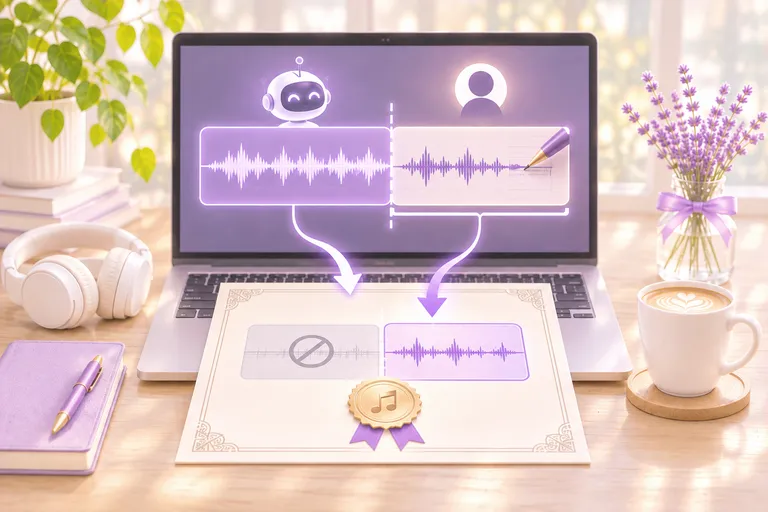
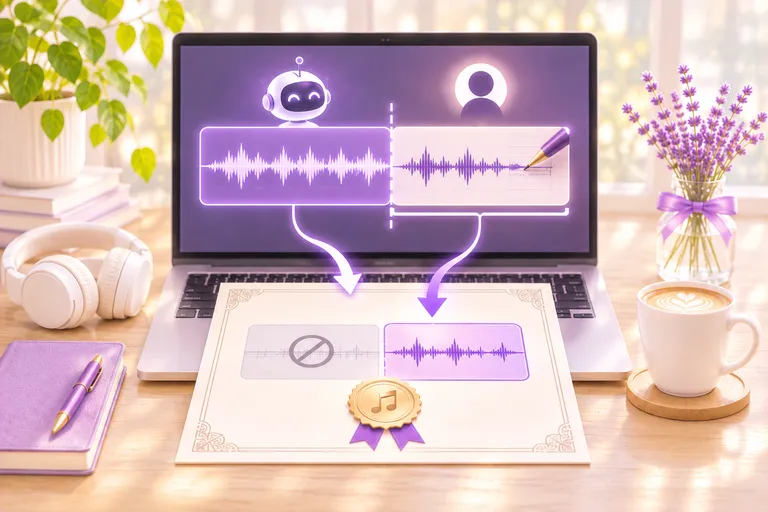
노트 6편 이미지 배경만 밝게, 피부 분석 이미지 얼굴 그대로(?v=1122f) [skip netlify]
Claude-Session: https://claude.ai/code/session_011a17cx1dpy8tGs1Hnq7wi8

diff --git a/index.html b/index.html
@@ -729,7 +729,7 @@ a.note:hover,.note.live:hover{transform:translateY(-2px);border-color:var(--viol
   <div class="notes-bar">
     <div class="note-tabs" role="group" aria-label="노트 분류"></div>
   </div>
-  <div id="noteList"><div class="notes"><article class="note live"><img class="thumb" src="img/note-ai-news-2026-11-3-768.webp?v=1122e" width="768" height="512" loading="lazy" alt="책상 위에 나란히 선 이번 주 AI 소식 다섯 가지 카드"><div class="meta"><span class="cat">AI 뉴스 브리핑</span><span>2026.11.23</span></div><h3><a href="notes/ai-news-2026-11-3.html">이번 주 AI 소식 5가지</a></h3><p>2026년 11월 셋째 주, 제미나이 태스크 한국 무료부터 챗GPT 스페이스·라이브 받아쓰기, 모바일 새 화면, 앤트로픽 상장까지 공식 발표 기준으로 정리합니다.</p><div class="foot"><span class="go">노트 읽기 →</span><button type="button" class="more-btn" data-cat="AI 뉴스 브리핑">지난 노트 <b>8</b>편</button></div></article><article class="note live"><img class="thumb" src="img/note-gemini-tasks-free-768.webp?v=1122e" width="768" height="512" loading="lazy" alt="AI 로봇에게 일을 맡기고 쉬는 뒷모습"><div class="meta"><span class="cat">AI 활용 노하우</span><span>2026.11.23</span></div><h3><a href="notes/gemini-tasks-free.html">제미나이 태스크 무료로 쓰는 법, 무엇을 맡길 수 있나</a></h3><p>한국에서도 무료가 된 제미나이 태스크의 조건, 시작 순서, 미국 먼저인 기능, 결제·개인정보 주의점을 정리합니다.</p><div class="foot"><span class="go">노트 읽기 →</span><button type="button" class="more-btn" data-cat="AI 활용 노하우">지난 노트 <b>4</b>편</button></div></article><article class="note live"><img class="thumb" src="img/note-suno-visuals-768.webp?v=1122e" width="768" height="512" loading="lazy" alt="노트북 화면의 앨범 커버·영상 장면·음파"><div class="meta"><span class="cat">AI 음악 만들기</span><span>2026.11.23</span></div><h3><a href="notes/suno-visuals.html">수노(Suno) Visuals, 내 노래로 15초 영상 만드는 법</a></h3><p>노래로 15초 영상·가사 영상·앨범 아트를 만드는 순서, 따로 드는 Visuals 크레딧과 저작권 장치를 수노 공식 발표 기준으로 정리합니다.</p><div class="foot"><span class="go">노트 읽기 →</span><button type="button" class="more-btn" data-cat="AI 음악 만들기">지난 노트 <b>3</b>편</button></div></article><article class="note live"><img class="thumb" src="img/note-ai-skin-analysis-768.webp?v=1122e" width="768" height="512" loading="lazy" alt="조명에 따라 점수가 달라지는 피부 분석 화면(얼굴은 흐림)"><div class="meta"><span class="cat">뷰티 × AI</span><span>2026.11.23</span></div><h3><a href="notes/ai-skin-analysis.html">AI 피부 분석 앱, 어디까지 믿을 수 있나</a></h3><p>피부 점수가 보는 항목, 식약처 기준으로 본 의료기기와 관리 앱의 경계, 결과가 흔들리는 이유와 잘 쓰는 법을 정리합니다.</p><div class="foot"><span class="go">노트 읽기 →</span><button type="button" class="more-btn" data-cat="뷰티 × AI">지난 노트 <b>3</b>편</button></div></article><article class="note live"><img class="thumb" src="img/note-sheet-music-omr-768.webp?v=1122e" width="768" height="512" loading="lazy" alt="낡은 종이 악보가 AI로 편집 가능한 디지털 악보로 바뀌는 노트북 화면"><div class="meta"><span class="cat">반주 · 피아노 × AI</span><span>2026.11.23</span></div><h3><a href="notes/sheet-music-omr.html">PDF 악보를 편집할 수 있는 악보로, AI 악보 인식(OMR) 정리</a></h3><p>뮤즈스코어 PDF 가져오기·오디베리스·플레이스코어 2·사운드슬라이스 비교와 변환 순서, 검수·저작권 주의점을 정리합니다.</p><div class="foot"><span class="go">노트 읽기 →</span><button type="button" class="more-btn" data-cat="반주 · 피아노 × AI">지난 노트 <b>3</b>편</button></div></article><article class="note live"><img class="thumb" src="img/note-ai-copyright-registration-768.webp?v=1122e" width="768" height="512" loading="lazy" alt="AI가 만든 부분은 빠지고 사람이 만든 부분만 등록되는 저작권 등록증"><div class="meta"><span class="cat">AI 시대의 창작과 교육</span><span>2026.11.23</span></div><h3><a href="notes/ai-copyright-registration.html">저작권 등록할 때 AI 사용을 밝히게 된다, 창작자가 알아둘 것</a></h3><p>문체부의 AI 사용 명시 추진과 지금 등록 기준, 사람이 기여한 부분만 보호되는 원칙, 창작 기록 남기는 법을 정리합니다.</p><div class="foot"><span class="go">노트 읽기 →</span><button type="button" class="more-btn" data-cat="AI 시대의 창작과 교육">지난 노트 <b>3</b>편</button></div></article></div><div class="past with-cat" role="region" aria-label="지난 노트"><div class="past-head"><h4><b>지난</b> 노트</h4><span>분야 탭을 누르면 분야별로 모아 볼 수 있습니다</span></div><ol><li><a class="past-row" href="notes/ai-news-2026-11-2.html"><span class="c">AI 뉴스 브리핑</span><span class="t">이번 주 AI 소식 5가지 <span class="s">(11월 둘째 주)</span></span><time>2026.11.16</time></a></li><li><a class="past-row" href="notes/ai-content-festival-2026.html"><span class="c">AI 뉴스 브리핑</span><span class="t">AI 콘텐츠 페스티벌 2026으로 본 AI 창작의 흐름</span><time>2026.11.13</time></a></li><li><a class="past-row" href="notes/ai-news-2026-11-1.html"><span class="c">AI 뉴스 브리핑</span><span class="t">이번 주 AI 소식 5가지 <span class="s">(11월 첫째 주)</span></span><time>2026.11.07</time></a></li><li><a class="past-row" href="notes/gemini-plans-2026.html"><span class="c">AI 활용 노하우</span><span class="t">제미나이 요금제 비교, 11월 13일 이후 무엇을 고를까</span><time>2026.11.07</time></a></li><li><a class="past-row" href="notes/suno-cover-extend.html"><span class="c">AI 음악 만들기</span><span class="t">수노(Suno) 커버·익스텐드, 내 곡을 바꾸고 이어 만드는 법</span><time>2026.11.07</time></a></li><li><a class="past-row" href="notes/ai-virtual-makeup.html"><span class="c">뷰티 × AI</span><span class="t">AI 가상 메이크업 앱, 어디까지 믿을 수 있나</span><time>2026.11.07</time></a></li><li class="more-hidden"><a class="past-row" href="notes/christmas-worship-accompaniment.html"><span class="c">반주 · 피아노 × AI</span><span class="t">성탄 찬양 반주 준비, 코드 진행과 편곡 아이디어</span><time>2026.11.07</time></a></li><li class="more-hidden"><a class="past-row" href="notes/youtube-ai-monetization.html"><span class="c">AI 시대의 창작과 교육</span><span class="t">유튜브 AI 콘텐츠, 수익 정책 어디까지 알아야 하나</span><time>2026.11.07</time></a></li><li class="more-hidden"><a class="past-row" href="notes/robotworld-2026.html"><span class="c">AI 뉴스 브리핑</span><span class="t">로보월드 2026으로 본 휴머노이드·피지컬 AI 5가지</span><time>2026.11.06</time></a></li><li class="more-hidden"><a class="past-row" href="notes/aiot-week-2026.html"><span class="c">AI 뉴스 브리핑</span><span class="t">AIoT 위크 코리아 2026으로 본 피지컬 AI 5가지</span><time>2026.11.03</time></a></li><li class="more-hidden"><a class="past-row" href="notes/ai-news-2026-10-5.html"><span class="c">AI 뉴스 브리핑</span><span class="t">이번 주 AI 소식 5가지 <span class="s">(10월 다섯째 주)</span></span><time>2026.10.31</time></a></li><li class="more-hidden"><a class="past-row" href="notes/pickle-ai-agent.html"><span class="c">AI 활용 노하우</span><span class="t">휴대폰 속 AI 비서 피클, 인스팅트와 무엇이 다른가</span><time>2026.10.31</time></a></li><li class="more-hidden"><a class="past-row" href="notes/ai-news-2026-10-4.html"><span class="c">AI 뉴스 브리핑</span><span class="t">이번 주 AI 소식 5가지 <span class="s">(10월 넷째 주)</span></span><time>2026.10.26</time></a></li><li class="more-hidden"><a class="past-row" href="notes/gemini-gems-to-skills.html"><span class="c">AI 활용 노하우</span><span class="t">제미나이 Gems가 스킬로 바뀐다, 미리 할 일</span><time>2026.10.26</time></a></li><li class="more-hidden"><a class="past-row" href="notes/suno-styles.html"><span class="c">AI 음악 만들기</span><span class="t">수노(Suno) Styles 칸, 이렇게 쓰면 곡이 달라진다</span><time>2026.10.26</time></a></li><li class="more-hidden"><a class="past-row" href="notes/ai-hairstyle-simulation.html"><span class="c">뷰티 × AI</span><span class="t">AI 헤어스타일 시뮬레이션, 미용실 가기 전에 알아 둘 것</span><time>2026.10.26</time></a></li><li class="more-hidden"><a class="past-row" href="notes/worship-transpose.html"><span class="c">반주 · 피아노 × AI</span><span class="t">찬양 반주 조옮김, 트랜스포즈 버튼과 악보 프로그램 쓰는 법</span><time>2026.10.26</time></a></li><li class="more-hidden"><a class="past-row" href="notes/music-education-ai.html"><span class="c">AI 시대의 창작과 교육</span><span class="t">음악 교육 현장의 AI 도구, 지금 어디까지 왔나</span><time>2026.10.26</time></a></li><li class="more-hidden"><a class="past-row" href="notes/ai-news-2026-10-3.html"><span class="c">AI 뉴스 브리핑</span><span class="t">이번 주 AI 소식 5가지 <span class="s">(10월 셋째 주)</span></span><time>2026.10.21</time></a></li><li class="more-hidden"><a class="past-row" href="notes/chatgpt-gemini-claude.html"><span class="c">AI 활용 노하우</span><span class="t">챗GPT·제미나이·클로드, 무엇을 쓸까</span><time>2026.10.21</time></a></li><li class="more-hidden"><a class="past-row" href="notes/suno-lyrics.html"><span class="c">AI 음악 만들기</span><span class="t">수노(Suno) AI로 작사부터 시작하는 법</span><time>2026.10.21</time></a></li><li class="more-hidden"><a class="past-row" href="notes/personal-color.html"><span class="c">뷰티 × AI</span><span class="t">퍼스널컬러 진단, 받기 전에 알아 둘 것과 AI 활용법</span><time>2026.10.21</time></a></li><li class="more-hidden"><a class="past-row" href="notes/worship-chord-progressions.html"><span class="c">반주 · 피아노 × AI</span><span class="t">찬양 반주 코드 진행, 초보가 먼저 익힐 5가지</span><time>2026.10.21</time></a></li><li class="more-hidden"><a class="past-row" href="notes/ai-music-copyright.html"><span class="c">AI 시대의 창작과 교육</span><span class="t">AI로 만든 노래의 저작권, 지금 어디까지 왔나</span><time>2026.10.21</time></a></li></ol><button type="button" class="past-more">지난 노트 18편 더 보기</button></div></div><!--/noteList-->
+  <div id="noteList"><div class="notes"><article class="note live"><img class="thumb" src="img/note-ai-news-2026-11-3-768.webp?v=1122f" width="768" height="512" loading="lazy" alt="책상 위에 나란히 선 이번 주 AI 소식 다섯 가지 카드"><div class="meta"><span class="cat">AI 뉴스 브리핑</span><span>2026.11.23</span></div><h3><a href="notes/ai-news-2026-11-3.html">이번 주 AI 소식 5가지</a></h3><p>2026년 11월 셋째 주, 제미나이 태스크 한국 무료부터 챗GPT 스페이스·라이브 받아쓰기, 모바일 새 화면, 앤트로픽 상장까지 공식 발표 기준으로 정리합니다.</p><div class="foot"><span class="go">노트 읽기 →</span><button type="button" class="more-btn" data-cat="AI 뉴스 브리핑">지난 노트 <b>8</b>편</button></div></article><article class="note live"><img class="thumb" src="img/note-gemini-tasks-free-768.webp?v=1122f" width="768" height="512" loading="lazy" alt="AI 로봇에게 일을 맡기고 쉬는 뒷모습"><div class="meta"><span class="cat">AI 활용 노하우</span><span>2026.11.23</span></div><h3><a href="notes/gemini-tasks-free.html">제미나이 태스크 무료로 쓰는 법, 무엇을 맡길 수 있나</a></h3><p>한국에서도 무료가 된 제미나이 태스크의 조건, 시작 순서, 미국 먼저인 기능, 결제·개인정보 주의점을 정리합니다.</p><div class="foot"><span class="go">노트 읽기 →</span><button type="button" class="more-btn" data-cat="AI 활용 노하우">지난 노트 <b>4</b>편</button></div></article><article class="note live"><img class="thumb" src="img/note-suno-visuals-768.webp?v=1122f" width="768" height="512" loading="lazy" alt="노트북 화면의 앨범 커버·영상 장면·음파"><div class="meta"><span class="cat">AI 음악 만들기</span><span>2026.11.23</span></div><h3><a href="notes/suno-visuals.html">수노(Suno) Visuals, 내 노래로 15초 영상 만드는 법</a></h3><p>노래로 15초 영상·가사 영상·앨범 아트를 만드는 순서, 따로 드는 Visuals 크레딧과 저작권 장치를 수노 공식 발표 기준으로 정리합니다.</p><div class="foot"><span class="go">노트 읽기 →</span><button type="button" class="more-btn" data-cat="AI 음악 만들기">지난 노트 <b>3</b>편</button></div></article><article class="note live"><img class="thumb" src="img/note-ai-skin-analysis-768.webp?v=1122f" width="768" height="512" loading="lazy" alt="조명에 따라 점수가 달라지는 피부 분석 화면"><div class="meta"><span class="cat">뷰티 × AI</span><span>2026.11.23</span></div><h3><a href="notes/ai-skin-analysis.html">AI 피부 분석 앱, 어디까지 믿을 수 있나</a></h3><p>피부 점수가 보는 항목, 식약처 기준으로 본 의료기기와 관리 앱의 경계, 결과가 흔들리는 이유와 잘 쓰는 법을 정리합니다.</p><div class="foot"><span class="go">노트 읽기 →</span><button type="button" class="more-btn" data-cat="뷰티 × AI">지난 노트 <b>3</b>편</button></div></article><article class="note live"><img class="thumb" src="img/note-sheet-music-omr-768.webp?v=1122f" width="768" height="512" loading="lazy" alt="낡은 종이 악보가 AI로 편집 가능한 디지털 악보로 바뀌는 노트북 화면"><div class="meta"><span class="cat">반주 · 피아노 × AI</span><span>2026.11.23</span></div><h3><a href="notes/sheet-music-omr.html">PDF 악보를 편집할 수 있는 악보로, AI 악보 인식(OMR) 정리</a></h3><p>뮤즈스코어 PDF 가져오기·오디베리스·플레이스코어 2·사운드슬라이스 비교와 변환 순서, 검수·저작권 주의점을 정리합니다.</p><div class="foot"><span class="go">노트 읽기 →</span><button type="button" class="more-btn" data-cat="반주 · 피아노 × AI">지난 노트 <b>3</b>편</button></div></article><article class="note live"><img class="thumb" src="img/note-ai-copyright-registration-768.webp?v=1122f" width="768" height="512" loading="lazy" alt="AI가 만든 부분은 빠지고 사람이 만든 부분만 등록되는 저작권 등록증"><div class="meta"><span class="cat">AI 시대의 창작과 교육</span><span>2026.11.23</span></div><h3><a href="notes/ai-copyright-registration.html">저작권 등록할 때 AI 사용을 밝히게 된다, 창작자가 알아둘 것</a></h3><p>문체부의 AI 사용 명시 추진과 지금 등록 기준, 사람이 기여한 부분만 보호되는 원칙, 창작 기록 남기는 법을 정리합니다.</p><div class="foot"><span class="go">노트 읽기 →</span><button type="button" class="more-btn" data-cat="AI 시대의 창작과 교육">지난 노트 <b>3</b>편</button></div></article></div><div class="past with-cat" role="region" aria-label="지난 노트"><div class="past-head"><h4><b>지난</b> 노트</h4><span>분야 탭을 누르면 분야별로 모아 볼 수 있습니다</span></div><ol><li><a class="past-row" href="notes/ai-news-2026-11-2.html"><span class="c">AI 뉴스 브리핑</span><span class="t">이번 주 AI 소식 5가지 <span class="s">(11월 둘째 주)</span></span><time>2026.11.16</time></a></li><li><a class="past-row" href="notes/ai-content-festival-2026.html"><span class="c">AI 뉴스 브리핑</span><span class="t">AI 콘텐츠 페스티벌 2026으로 본 AI 창작의 흐름</span><time>2026.11.13</time></a></li><li><a class="past-row" href="notes/ai-news-2026-11-1.html"><span class="c">AI 뉴스 브리핑</span><span class="t">이번 주 AI 소식 5가지 <span class="s">(11월 첫째 주)</span></span><time>2026.11.07</time></a></li><li><a class="past-row" href="notes/gemini-plans-2026.html"><span class="c">AI 활용 노하우</span><span class="t">제미나이 요금제 비교, 11월 13일 이후 무엇을 고를까</span><time>2026.11.07</time></a></li><li><a class="past-row" href="notes/suno-cover-extend.html"><span class="c">AI 음악 만들기</span><span class="t">수노(Suno) 커버·익스텐드, 내 곡을 바꾸고 이어 만드는 법</span><time>2026.11.07</time></a></li><li><a class="past-row" href="notes/ai-virtual-makeup.html"><span class="c">뷰티 × AI</span><span class="t">AI 가상 메이크업 앱, 어디까지 믿을 수 있나</span><time>2026.11.07</time></a></li><li class="more-hidden"><a class="past-row" href="notes/christmas-worship-accompaniment.html"><span class="c">반주 · 피아노 × AI</span><span class="t">성탄 찬양 반주 준비, 코드 진행과 편곡 아이디어</span><time>2026.11.07</time></a></li><li class="more-hidden"><a class="past-row" href="notes/youtube-ai-monetization.html"><span class="c">AI 시대의 창작과 교육</span><span class="t">유튜브 AI 콘텐츠, 수익 정책 어디까지 알아야 하나</span><time>2026.11.07</time></a></li><li class="more-hidden"><a class="past-row" href="notes/robotworld-2026.html"><span class="c">AI 뉴스 브리핑</span><span class="t">로보월드 2026으로 본 휴머노이드·피지컬 AI 5가지</span><time>2026.11.06</time></a></li><li class="more-hidden"><a class="past-row" href="notes/aiot-week-2026.html"><span class="c">AI 뉴스 브리핑</span><span class="t">AIoT 위크 코리아 2026으로 본 피지컬 AI 5가지</span><time>2026.11.03</time></a></li><li class="more-hidden"><a class="past-row" href="notes/ai-news-2026-10-5.html"><span class="c">AI 뉴스 브리핑</span><span class="t">이번 주 AI 소식 5가지 <span class="s">(10월 다섯째 주)</span></span><time>2026.10.31</time></a></li><li class="more-hidden"><a class="past-row" href="notes/pickle-ai-agent.html"><span class="c">AI 활용 노하우</span><span class="t">휴대폰 속 AI 비서 피클, 인스팅트와 무엇이 다른가</span><time>2026.10.31</time></a></li><li class="more-hidden"><a class="past-row" href="notes/ai-news-2026-10-4.html"><span class="c">AI 뉴스 브리핑</span><span class="t">이번 주 AI 소식 5가지 <span class="s">(10월 넷째 주)</span></span><time>2026.10.26</time></a></li><li class="more-hidden"><a class="past-row" href="notes/gemini-gems-to-skills.html"><span class="c">AI 활용 노하우</span><span class="t">제미나이 Gems가 스킬로 바뀐다, 미리 할 일</span><time>2026.10.26</time></a></li><li class="more-hidden"><a class="past-row" href="notes/suno-styles.html"><span class="c">AI 음악 만들기</span><span class="t">수노(Suno) Styles 칸, 이렇게 쓰면 곡이 달라진다</span><time>2026.10.26</time></a></li><li class="more-hidden"><a class="past-row" href="notes/ai-hairstyle-simulation.html"><span class="c">뷰티 × AI</span><span class="t">AI 헤어스타일 시뮬레이션, 미용실 가기 전에 알아 둘 것</span><time>2026.10.26</time></a></li><li class="more-hidden"><a class="past-row" href="notes/worship-transpose.html"><span class="c">반주 · 피아노 × AI</span><span class="t">찬양 반주 조옮김, 트랜스포즈 버튼과 악보 프로그램 쓰는 법</span><time>2026.10.26</time></a></li><li class="more-hidden"><a class="past-row" href="notes/music-education-ai.html"><span class="c">AI 시대의 창작과 교육</span><span class="t">음악 교육 현장의 AI 도구, 지금 어디까지 왔나</span><time>2026.10.26</time></a></li><li class="more-hidden"><a class="past-row" href="notes/ai-news-2026-10-3.html"><span class="c">AI 뉴스 브리핑</span><span class="t">이번 주 AI 소식 5가지 <span class="s">(10월 셋째 주)</span></span><time>2026.10.21</time></a></li><li class="more-hidden"><a class="past-row" href="notes/chatgpt-gemini-claude.html"><span class="c">AI 활용 노하우</span><span class="t">챗GPT·제미나이·클로드, 무엇을 쓸까</span><time>2026.10.21</time></a></li><li class="more-hidden"><a class="past-row" href="notes/suno-lyrics.html"><span class="c">AI 음악 만들기</span><span class="t">수노(Suno) AI로 작사부터 시작하는 법</span><time>2026.10.21</time></a></li><li class="more-hidden"><a class="past-row" href="notes/personal-color.html"><span class="c">뷰티 × AI</span><span class="t">퍼스널컬러 진단, 받기 전에 알아 둘 것과 AI 활용법</span><time>2026.10.21</time></a></li><li class="more-hidden"><a class="past-row" href="notes/worship-chord-progressions.html"><span class="c">반주 · 피아노 × AI</span><span class="t">찬양 반주 코드 진행, 초보가 먼저 익힐 5가지</span><time>2026.10.21</time></a></li><li class="more-hidden"><a class="past-row" href="notes/ai-music-copyright.html"><span class="c">AI 시대의 창작과 교육</span><span class="t">AI로 만든 노래의 저작권, 지금 어디까지 왔나</span><time>2026.10.21</time></a></li></ol><button type="button" class="past-more">지난 노트 18편 더 보기</button></div></div><!--/noteList-->
 </section>
 
 <script>
@@ -738,12 +738,12 @@ a.note:hover,.note.live:hover{transform:translateY(-2px);border-color:var(--viol
    url에 "notes/파일명.html"을 넣으면 카드가 노트로 연결되고, 비어 있으면 "준비 중"으로 표시됩니다. */
 const CATS = ["AI 뉴스 브리핑","AI 활용 노하우","AI 음악 만들기","뷰티 × AI","반주 · 피아노 × AI","AI 시대의 창작과 교육"];
 const NOTES = [
-  {cat:"AI 뉴스 브리핑", title:"이번 주 AI 소식 5가지", desc:"2026년 11월 셋째 주, 제미나이 태스크 한국 무료부터 챗GPT 스페이스·라이브 받아쓰기, 모바일 새 화면, 앤트로픽 상장까지 공식 발표 기준으로 정리합니다.", sub:"11월 셋째 주", date:"2026.11.23", url:"notes/ai-news-2026-11-3.html", img:"img/note-ai-news-2026-11-3-768.webp?v=1122e", alt:"책상 위에 나란히 선 이번 주 AI 소식 다섯 가지 카드"},
-  {cat:"AI 시대의 창작과 교육", title:"저작권 등록할 때 AI 사용을 밝히게 된다, 창작자가 알아둘 것", desc:"문체부의 AI 사용 명시 추진과 지금 등록 기준, 사람이 기여한 부분만 보호되는 원칙, 창작 기록 남기는 법을 정리합니다.", date:"2026.11.23", url:"notes/ai-copyright-registration.html", img:"img/note-ai-copyright-registration-768.webp?v=1122e", alt:"AI가 만든 부분은 빠지고 사람이 만든 부분만 등록되는 저작권 등록증"},
-  {cat:"반주 · 피아노 × AI", title:"PDF 악보를 편집할 수 있는 악보로, AI 악보 인식(OMR) 정리", desc:"뮤즈스코어 PDF 가져오기·오디베리스·플레이스코어 2·사운드슬라이스 비교와 변환 순서, 검수·저작권 주의점을 정리합니다.", date:"2026.11.23", url:"notes/sheet-music-omr.html", img:"img/note-sheet-music-omr-768.webp?v=1122e", alt:"낡은 종이 악보가 AI로 편집 가능한 디지털 악보로 바뀌는 노트북 화면"},
-  {cat:"뷰티 × AI", title:"AI 피부 분석 앱, 어디까지 믿을 수 있나", desc:"피부 점수가 보는 항목, 식약처 기준으로 본 의료기기와 관리 앱의 경계, 결과가 흔들리는 이유와 잘 쓰는 법을 정리합니다.", date:"2026.11.23", url:"notes/ai-skin-analysis.html", img:"img/note-ai-skin-analysis-768.webp?v=1122e", alt:"조명에 따라 점수가 달라지는 피부 분석 화면(얼굴은 흐림)"},
-  {cat:"AI 음악 만들기", title:"수노(Suno) Visuals, 내 노래로 15초 영상 만드는 법", desc:"노래로 15초 영상·가사 영상·앨범 아트를 만드는 순서, 따로 드는 Visuals 크레딧과 저작권 장치를 수노 공식 발표 기준으로 정리합니다.", date:"2026.11.23", url:"notes/suno-visuals.html", img:"img/note-suno-visuals-768.webp?v=1122e", alt:"노트북 화면의 앨범 커버·영상 장면·음파"},
-  {cat:"AI 활용 노하우", title:"제미나이 태스크 무료로 쓰는 법, 무엇을 맡길 수 있나", desc:"한국에서도 무료가 된 제미나이 태스크의 조건, 시작 순서, 미국 먼저인 기능, 결제·개인정보 주의점을 정리합니다.", date:"2026.11.23", url:"notes/gemini-tasks-free.html", img:"img/note-gemini-tasks-free-768.webp?v=1122e", alt:"AI 로봇에게 일을 맡기고 쉬는 뒷모습"},
+  {cat:"AI 뉴스 브리핑", title:"이번 주 AI 소식 5가지", desc:"2026년 11월 셋째 주, 제미나이 태스크 한국 무료부터 챗GPT 스페이스·라이브 받아쓰기, 모바일 새 화면, 앤트로픽 상장까지 공식 발표 기준으로 정리합니다.", sub:"11월 셋째 주", date:"2026.11.23", url:"notes/ai-news-2026-11-3.html", img:"img/note-ai-news-2026-11-3-768.webp?v=1122f", alt:"책상 위에 나란히 선 이번 주 AI 소식 다섯 가지 카드"},
+  {cat:"AI 시대의 창작과 교육", title:"저작권 등록할 때 AI 사용을 밝히게 된다, 창작자가 알아둘 것", desc:"문체부의 AI 사용 명시 추진과 지금 등록 기준, 사람이 기여한 부분만 보호되는 원칙, 창작 기록 남기는 법을 정리합니다.", date:"2026.11.23", url:"notes/ai-copyright-registration.html", img:"img/note-ai-copyright-registration-768.webp?v=1122f", alt:"AI가 만든 부분은 빠지고 사람이 만든 부분만 등록되는 저작권 등록증"},
+  {cat:"반주 · 피아노 × AI", title:"PDF 악보를 편집할 수 있는 악보로, AI 악보 인식(OMR) 정리", desc:"뮤즈스코어 PDF 가져오기·오디베리스·플레이스코어 2·사운드슬라이스 비교와 변환 순서, 검수·저작권 주의점을 정리합니다.", date:"2026.11.23", url:"notes/sheet-music-omr.html", img:"img/note-sheet-music-omr-768.webp?v=1122f", alt:"낡은 종이 악보가 AI로 편집 가능한 디지털 악보로 바뀌는 노트북 화면"},
+  {cat:"뷰티 × AI", title:"AI 피부 분석 앱, 어디까지 믿을 수 있나", desc:"피부 점수가 보는 항목, 식약처 기준으로 본 의료기기와 관리 앱의 경계, 결과가 흔들리는 이유와 잘 쓰는 법을 정리합니다.", date:"2026.11.23", url:"notes/ai-skin-analysis.html", img:"img/note-ai-skin-analysis-768.webp?v=1122f", alt:"조명에 따라 점수가 달라지는 피부 분석 화면"},
+  {cat:"AI 음악 만들기", title:"수노(Suno) Visuals, 내 노래로 15초 영상 만드는 법", desc:"노래로 15초 영상·가사 영상·앨범 아트를 만드는 순서, 따로 드는 Visuals 크레딧과 저작권 장치를 수노 공식 발표 기준으로 정리합니다.", date:"2026.11.23", url:"notes/suno-visuals.html", img:"img/note-suno-visuals-768.webp?v=1122f", alt:"노트북 화면의 앨범 커버·영상 장면·음파"},
+  {cat:"AI 활용 노하우", title:"제미나이 태스크 무료로 쓰는 법, 무엇을 맡길 수 있나", desc:"한국에서도 무료가 된 제미나이 태스크의 조건, 시작 순서, 미국 먼저인 기능, 결제·개인정보 주의점을 정리합니다.", date:"2026.11.23", url:"notes/gemini-tasks-free.html", img:"img/note-gemini-tasks-free-768.webp?v=1122f", alt:"AI 로봇에게 일을 맡기고 쉬는 뒷모습"},
   {cat:"AI 뉴스 브리핑", title:"이번 주 AI 소식 5가지", desc:"2026년 11월 둘째 주, 챗GPT 음성 12월 11일 변경과 클로드 시트·화이트보드, 제미나이 카플레이, 어도비 맥스, AI 안경 예약을 공식 발표 기준으로 정리합니다.", sub:"11월 둘째 주", date:"2026.11.16", url:"notes/ai-news-2026-11-2.html", img:"img/note-ai-news-2026-11-2-768.webp", alt:"보라색 음성 파형이 뜬 스마트폰에 손을 얹은 책상"},
   {cat:"AI 뉴스 브리핑", title:"AI 콘텐츠 페스티벌 2026으로 본 AI 창작의 흐름", desc:"문체부·콘진원이 연 무료 AI 콘텐츠 축제. 스토리·플레이·메이크·크로스 전시와 사흘간 강연·오픈클래스, 14일 특별공연과 관람 정보를 정리합니다.", date:"2026.11.13", url:"notes/ai-content-festival-2026.html", img:"img/note-ai-content-festival-2026-768.webp", alt:"코엑스 더플라츠 복도의 AI 콘텐츠 페스티벌 디지털 안내 화면 앞에 선 관람객들의 뒷모습"},
   {cat:"AI 시대의 창작과 교육", title:"유튜브 AI 콘텐츠, 수익 정책 어디까지 알아야 하나", desc:"비진정성 콘텐츠 기준, AI 음악 사용 공개, AI 라벨과 수익, 2027년 YPP 변경을 유튜브 공식 정책으로 정리합니다.", date:"2026.11.07", url:"notes/youtube-ai-monetization.html", img:"img/note-youtube-ai-monetization-768.webp", alt:"영상 편집 화면 옆에서 체크리스트에 표시하는 손"},

diff --git a/notes/ai-copyright-registration.html b/notes/ai-copyright-registration.html
@@ -143,7 +143,7 @@ if(document.readyState==='complete'){w();}else{addEventListener('load',w);}})();
 </header>
 
 <figure class="hero">
-  <img src="../img/note-ai-copyright-registration.webp?v=1122e" srcset="../img/note-ai-copyright-registration-768.webp?v=1122e 768w, ../img/note-ai-copyright-registration.webp?v=1122e 1536w" sizes="(max-width:760px) 100vw, 760px" width="1536" height="1024" fetchpriority="high" alt="원목 책상 위 노트북 화면에 AI 로봇이 만든 음파와 사람이 펜으로 다듬은 음파가 나뉘어 있고, 사람이 만든 부분만 금색 음표 인장이 찍힌 등록증에 옮겨지고 AI 부분은 금지 표시로 빠지는 모습. 옆에 헤드폰, 보라 노트와 펜, 라테, 라벤더 꽃병">
+  <img src="../img/note-ai-copyright-registration.webp?v=1122f" srcset="../img/note-ai-copyright-registration-768.webp?v=1122f 768w, ../img/note-ai-copyright-registration.webp?v=1122f 1536w" sizes="(max-width:760px) 100vw, 760px" width="1536" height="1024" fetchpriority="high" alt="원목 책상 위 노트북 화면에 AI 로봇이 만든 음파와 사람이 펜으로 다듬은 음파가 나뉘어 있고, 사람이 만든 부분만 금색 음표 인장이 찍힌 등록증에 옮겨지고 AI 부분은 금지 표시로 빠지는 모습. 옆에 헤드폰, 보라 노트와 펜, 라테, 라벤더 꽃병">
   <figcaption>AI 생성 이미지입니다.</figcaption>
 </figure>
 

diff --git a/notes/ai-news-2026-11-3.html b/notes/ai-news-2026-11-3.html
@@ -143,7 +143,7 @@ if(document.readyState==='complete'){w();}else{addEventListener('load',w);}})();
 </header>
 
 <figure class="hero">
-  <img src="../img/note-ai-news-2026-11-3.webp?v=1122e" srcset="../img/note-ai-news-2026-11-3-768.webp?v=1122e 768w, ../img/note-ai-news-2026-11-3.webp?v=1122e 1536w" sizes="(max-width:760px) 100vw, 760px" width="1536" height="1024" fetchpriority="high" alt="햇살 드는 원목 책상 위에 흰 카드 다섯 장이 나란히 서 있고, 할 일 체크 목록·작업 공간·마이크와 음파·휴대폰 앱 화면·상승 그래프가 하나씩 그려져 이번 주 AI 소식 다섯 가지를 보여 주는 정물. 옆에 라벤더 꽃병, 캔들, 책, 아이보리 헤드폰, 보라 노트와 펜">
+  <img src="../img/note-ai-news-2026-11-3.webp?v=1122f" srcset="../img/note-ai-news-2026-11-3-768.webp?v=1122f 768w, ../img/note-ai-news-2026-11-3.webp?v=1122f 1536w" sizes="(max-width:760px) 100vw, 760px" width="1536" height="1024" fetchpriority="high" alt="햇살 드는 원목 책상 위에 흰 카드 다섯 장이 나란히 서 있고, 할 일 체크 목록·작업 공간·마이크와 음파·휴대폰 앱 화면·상승 그래프가 하나씩 그려져 이번 주 AI 소식 다섯 가지를 보여 주는 정물. 옆에 라벤더 꽃병, 캔들, 책, 아이보리 헤드폰, 보라 노트와 펜">
   <figcaption>AI 생성 이미지입니다.</figcaption>
 </figure>
 

diff --git a/notes/suno-visuals.html b/notes/suno-visuals.html
@@ -143,7 +143,7 @@ if(document.readyState==='complete'){w();}else{addEventListener('load',w);}})();
 </header>
 
 <figure class="hero">
-  <img src="../img/note-suno-visuals.webp?v=1122e" srcset="../img/note-suno-visuals-768.webp?v=1122e 768w, ../img/note-suno-visuals.webp?v=1122e 1536w" sizes="(max-width:760px) 100vw, 760px" width="1536" height="1024" fetchpriority="high" alt="원목 책상 위 노트북 화면에 LP와 함께 놓인 앨범 커버, 노을 진 파리 풍경 영상 장면 세 칸, 그 아래 보라 음파가 정돈되어 노래 하나로 앨범 아트와 짧은 영상을 만드는 모습을 보여 주는 정물. 옆에 라벤더 꽃병, 아이보리 헤드폰, 건반, 보라 노트와 펜">
+  <img src="../img/note-suno-visuals.webp?v=1122f" srcset="../img/note-suno-visuals-768.webp?v=1122f 768w, ../img/note-suno-visuals.webp?v=1122f 1536w" sizes="(max-width:760px) 100vw, 760px" width="1536" height="1024" fetchpriority="high" alt="원목 책상 위 노트북 화면에 LP와 함께 놓인 앨범 커버, 노을 진 파리 풍경 영상 장면 세 칸, 그 아래 보라 음파가 정돈되어 노래 하나로 앨범 아트와 짧은 영상을 만드는 모습을 보여 주는 정물. 옆에 라벤더 꽃병, 아이보리 헤드폰, 건반, 보라 노트와 펜">
   <figcaption>AI 생성 이미지입니다.</figcaption>
 </figure>
 

diff --git a/notes/ai-skin-analysis.html b/notes/ai-skin-analysis.html
@@ -143,7 +143,7 @@ if(document.readyState==='complete'){w();}else{addEventListener('load',w);}})();
 </header>
 
 <figure class="hero">
-  <img src="../img/note-ai-skin-analysis.webp?v=1122e" srcset="../img/note-ai-skin-analysis-768.webp?v=1122e 768w, ../img/note-ai-skin-analysis.webp?v=1122e 1536w" sizes="(max-width:760px) 100vw, 760px" width="1536" height="1024" fetchpriority="high" alt="화장대 앞에서 연한 퍼플 니트 소매의 손이 피부 분석 화면을 띄운 휴대폰을 들고 터치하고, 햇빛·조명·스탠드 아이콘 아래 같은 얼굴 사진 세 장의 점수 그래프가 서로 다르게 나오는 모습(얼굴은 흐림). 앞에 크림색 스킨케어 병과 라벤더">
+  <img src="../img/note-ai-skin-analysis.webp?v=1122f" srcset="../img/note-ai-skin-analysis-768.webp?v=1122f 768w, ../img/note-ai-skin-analysis.webp?v=1122f 1536w" sizes="(max-width:760px) 100vw, 760px" width="1536" height="1024" fetchpriority="high" alt="화장대 앞에서 연한 퍼플 니트 소매의 손이 피부 분석 화면을 띄운 휴대폰을 들고 터치하고, 햇빛·조명·스탠드 아이콘 아래 같은 얼굴 사진 세 장의 점수 그래프가 서로 다르게 나오는 모습. 앞에 크림색 스킨케어 병과 라벤더">
   <figcaption>AI 생성 이미지입니다.</figcaption>
 </figure>
 

diff --git a/notes/sheet-music-omr.html b/notes/sheet-music-omr.html
@@ -143,7 +143,7 @@ if(document.readyState==='complete'){w();}else{addEventListener('load',w);}})();
 </header>
 
 <figure class="hero">
-  <img src="../img/note-sheet-music-omr.webp?v=1122e" srcset="../img/note-sheet-music-omr-768.webp?v=1122e 768w, ../img/note-sheet-music-omr.webp?v=1122e 1536w" sizes="(max-width:760px) 100vw, 760px" width="1536" height="1024" fetchpriority="high" alt="원목 책상 위 노트북 화면에서 왼쪽의 낡은 종이 악보가 AI 칩을 거쳐 오른쪽의 깔끔하고 고칠 수 있는 디지털 악보로 바뀌고, 연한 퍼플 니트 소매의 손가락이 터치패드를 누르는 모습. 옆에 라벤더 꽃병, 책, 종이 악보와 펜, 건반">
+  <img src="../img/note-sheet-music-omr.webp?v=1122f" srcset="../img/note-sheet-music-omr-768.webp?v=1122f 768w, ../img/note-sheet-music-omr.webp?v=1122f 1536w" sizes="(max-width:760px) 100vw, 760px" width="1536" height="1024" fetchpriority="high" alt="원목 책상 위 노트북 화면에서 왼쪽의 낡은 종이 악보가 AI 칩을 거쳐 오른쪽의 깔끔하고 고칠 수 있는 디지털 악보로 바뀌고, 연한 퍼플 니트 소매의 손가락이 터치패드를 누르는 모습. 옆에 라벤더 꽃병, 책, 종이 악보와 펜, 건반">
   <figcaption>AI 생성 이미지입니다.</figcaption>
 </figure>
 

diff --git a/notes/gemini-tasks-free.html b/notes/gemini-tasks-free.html
@@ -143,7 +143,7 @@ if(document.readyState==='complete'){w();}else{addEventListener('load',w);}})();
 </header>
 
 <figure class="hero">
-  <img src="../img/note-gemini-tasks-free.webp?v=1122e" srcset="../img/note-gemini-tasks-free-768.webp?v=1122e 768w, ../img/note-gemini-tasks-free.webp?v=1122e 1536w" sizes="(max-width:760px) 100vw, 760px" width="1536" height="1024" fetchpriority="high" alt="연한 퍼플 니트를 입은 여성이 뒷모습으로 의자에 기대 두 손을 머리 뒤로 깍지 낀 채 쉬고, 모니터 속 웃는 AI 로봇이 폴더를 받아 영상·이미지·그래프·문서 작업을 체크하며 처리하는 모습. 책상에 커피와 노트, 라벤더 꽃">
+  <img src="../img/note-gemini-tasks-free.webp?v=1122f" srcset="../img/note-gemini-tasks-free-768.webp?v=1122f 768w, ../img/note-gemini-tasks-free.webp?v=1122f 1536w" sizes="(max-width:760px) 100vw, 760px" width="1536" height="1024" fetchpriority="high" alt="연한 퍼플 니트를 입은 여성이 뒷모습으로 의자에 기대 두 손을 머리 뒤로 깍지 낀 채 쉬고, 모니터 속 웃는 AI 로봇이 폴더를 받아 영상·이미지·그래프·문서 작업을 체크하며 처리하는 모습. 책상에 커피와 노트, 라벤더 꽃">
   <figcaption>AI 생성 이미지입니다.</figcaption>
 </figure>
 

diff --git a/CLAUDE.md b/CLAUDE.md
@@ -86,7 +86,8 @@
 - 구도 다양화(2026-11-22 사용자 지적: "손만 나와서 6개가 다 똑같아 보인다"): 같은 주 6편은 구도·장소·빛이 서로 달라야 함. 위에서 내려다본 책상+손+노트북 장면은 한 주에 1장까지. 섞어 쓸 것: 사람 없는 소품 정물(개념 소품, 예: 로고 머그 3개·저작권 태그), 뒷모습·어깨 너머 장면, 옆에서 본 연주·작업 장면, 넓은 공간 장면(미용실·교회·스튜디오·카페·교실), 접사 제품 사진, 아침·저녁 등 다른 빛. 이미지 교체 시 파일명 끝에 버전을 붙이거나 주소에 ?v=를 붙여 브라우저 캐시(7일) 문제를 피함
 - 노트 이미지는 정적인 화면(2026-11-22 사용자 의견: 노트는 블로그보다 정보 위주라 차분해야 함): 빛나는 화살표·반짝이·떠 있는 아이콘·로봇 캐릭터 같은 움직이는 연출은 빼고, 주제를 상징하는 사물 하나를 중심으로 한 차분한 정물·실내 사진. 자연광, 여백 넉넉히. 프롬프트 끝에 "움직임 효과·반짝이·화살표 없이 차분한 정물 사진"을 붙인다. 캐릭터(로봇·인물)보다 정보가 돋보이게: 노트의 핵심 정보(비교·단계·전후·목록)가 화면이나 종이 위 그림·도형으로 한눈에 읽히는 구성, 사람·캐릭터는 넣지 않음(2026-11-22 사용자 요청)
 - 뷰티·반주 노트는 사용자 실제 사진이 있으면 우선 사용
-- 홈페이지 노트 이미지는 지금 방식 그대로(얼굴 없이 손·뒷모습, 가상 인물 얼굴이 나오면 흐림). 블로그는 따로 가상 인물 얼굴 허용(2026-10-22 사용자 결정)
+- 홈페이지 노트 이미지도 AI가 만든 가상 인물 얼굴은 흐리지 않고 그대로 씀(2026-11-22 사용자 결정, 10-22 "흐림" 규칙을 대신함). 실존 인물·가족·관람객 등 실제 사람 얼굴은 계속 흐림
+- 배경만 밝게(2026-11-22 사용자 요청): 노트 이미지가 어두우면 보라 포인트는 그대로 두고 배경(원목·벽·창)만 밝게 보정
 - 블로그와 홈페이지는 같은 사진을 쓰지 않는다. 노트 대표 이미지를 블로그에 재사용하지 않고, 블로그용은 새로 만든다(2026-10-22 사용자 결정)
 - img/ 폴더에 note-<slug>.webp로 저장, width/height 지정, loading="lazy"(대표 이미지는 제외)
 
